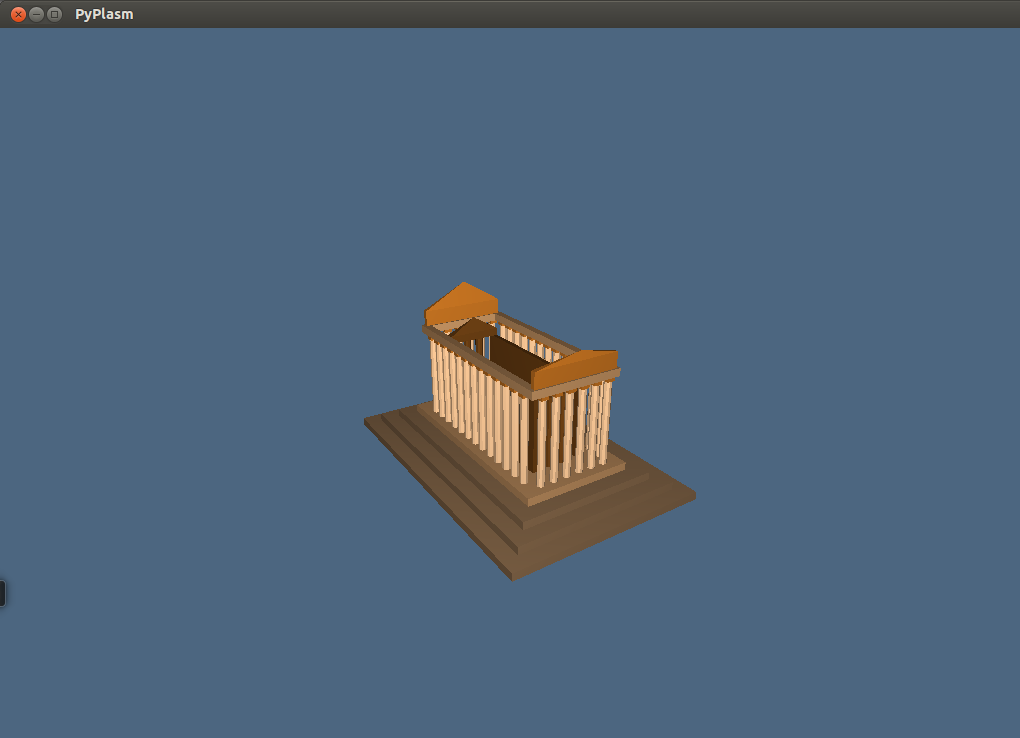
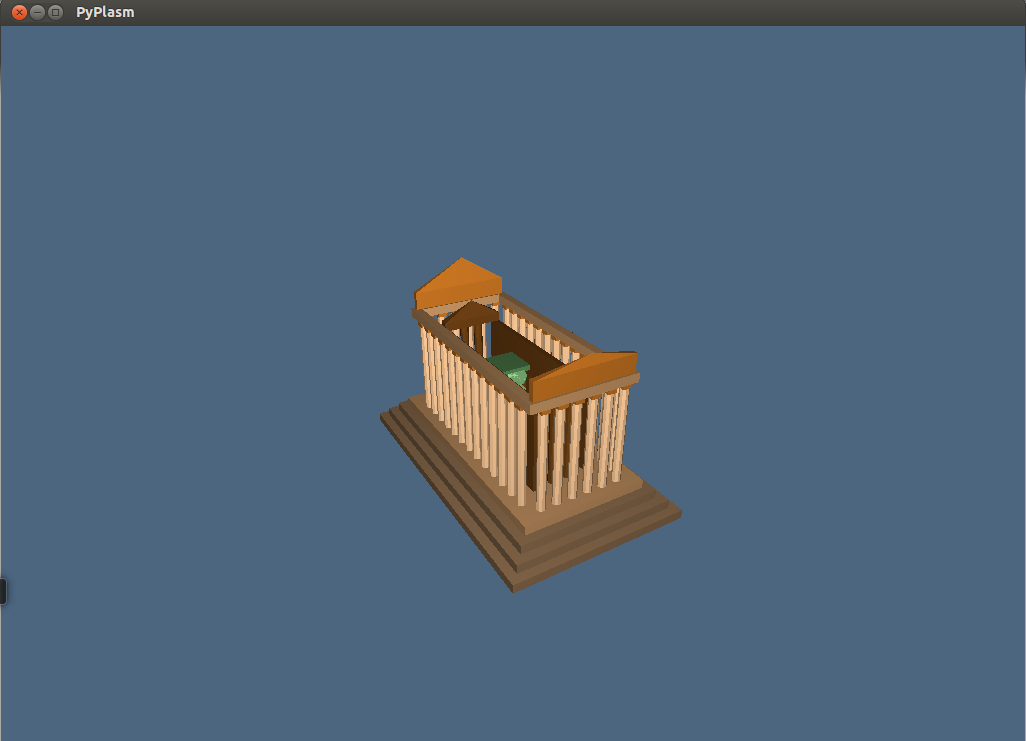
spiralStair

Changed region(s): [[0.3343, 0.3428, 0.699, 0.8103], [0.0, 0.0, 0.152, 0.0623], [0.9725, 0.0312, 1.0, 0.0623]]

diff --git a/2014-03-21/index.html b/2014-03-21/index.html
@@ -28,6 +28,8 @@
 		<a href="/immage/exercise3.png">Image exercise 3</a></p>
 		<p><a href="/python/exercise3.py">Exercise 4</a> 
 		<a href="/immage/exercise4.png">Image exercise 4</a></p>
+		<a href="/immage/exercise4-1.png">Image exercise 4</a></p>
+		<a href="/immage/exercise4-2.png">Image exercise 4</a></p>
 	</div>
    </body>
 </html>

diff --git a/2014-03-21/python/exercise4.py b/2014-03-21/python/exercise4.py
@@ -22,6 +22,12 @@ from pyplasm import MK
 from pyplasm import JOIN
 from pyplasm import Q
 from pyplasm import QUOTE
+from pyplasm import MAP
+from pyplasm import COS
+from pyplasm import SIN
+from pyplasm import BEZIER
+from pyplasm import INTERVALS
+from pyplasm import S3
 
 
 #function to define color
@@ -89,14 +95,33 @@ rect_nord = T([2,3])([9.5,-0.5])(rectC)
 central = COLOR(brown)(STRUCT([a,b,c,d,column_sud_central,column_nord_central,rect_est,rect_ovest,centralFront,rect_up_est,rect_up_ovest,rect_nord]))
 #vertical structure
 vertical_mock_up_3D = STRUCT([columns,front,central,back])
-#final 3D model
-solid_model_3D = STRUCT([two_and_half_model,vertical_mock_up_3D])
+
 
 """exercise 4"""
 #stairs
 colorStair = colorRGB([152,118,84])
-stair1=T([1,2,3])([-1,-1,-0.5])(CUBOID([9,16,0.5]))
-stair2=T([1,2,3])([-2,-2,-1])(CUBOID([11,18,0.5]))
-stair3=T([1,2,3])([-3,-3,-1.5])(CUBOID([13,20,0.5]))
+stair1=T([1,2,3])([-0.5,-0.5,-0.5])(CUBOID([8,15,0.5]))
+stair2=T([1,2,3])([-1,-1,-1])(CUBOID([9,16,0.5]))
+stair3=T([1,2,3])([-1.5,-1.5,-1.5])(CUBOID([10,17,0.5]))
 stairs=COLOR(colorStair)(STRUCT([stair1,stair2,stair3]))
-VIEW(STRUCT([stairs,solid_model_3D]))
+#spiral stair.
+#The spiral stair is not part of the real temple, but it is a touch of imagination
+#to satisfy the requirements of the exercise-part 4.
+dom1D = INTERVALS(1)(1)
+dom3D = INSR(PROD)([INTERVALS(7*PI)(240), dom1D, dom1D])
+def spiral1(p):
+    alpha,r,h = p
+    return [r*COS(alpha), r*SIN(alpha), alpha/(2*PI)]
+def spiral2(p):
+    alpha,r,h = p
+    return [r*COS(alpha), r*SIN(alpha), alpha/(2*PI) + 0.1]
+obj = STRUCT([MAP(spiral1)(dom3D), MAP(spiral2)(dom3D)])
+colorSpiralStair = colorRGB([154,223,149])
+spiralStair = COLOR(colorSpiralStair)(T([1,2,3])([3.5,6.5,0.5])(MAP(BEZIER(S3)([spiral1,spiral2]))(dom3D)))
+#invented floor to make sense of the spiral Stair
+colorInventedFloor = colorRGB([89,142,85])
+inventedFloor = COLOR(colorInventedFloor)(T([1,2,3])([2,4.5,4])(CUBOID([3,2,0.3])))
+#final 3D model
+solid_model_3D = STRUCT([two_and_half_model,vertical_mock_up_3D,spiralStair,inventedFloor,stairs])
+
+VIEW(solid_model_3D)
